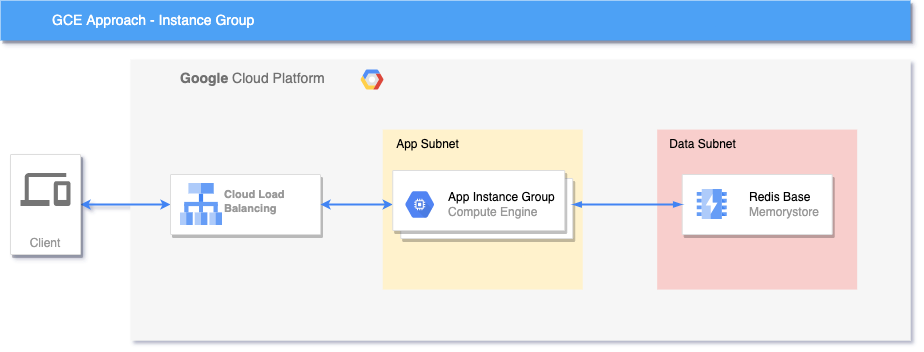
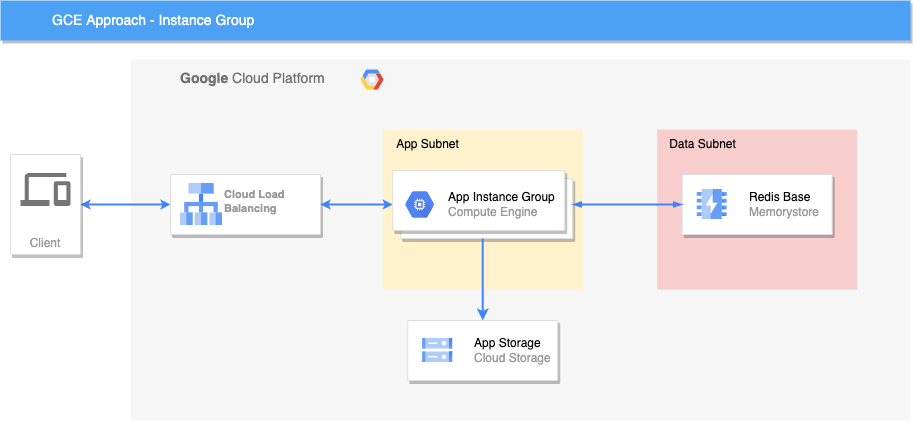
GCE Solution

diff --git a/app/main.go b/app/main.go
@@ -23,6 +23,7 @@ func init() {
 }
 
 func getCounters(w http.ResponseWriter, r *http.Request) {
+	hostname(w)
 	iter := redisClient.Scan(0, "counter:*", 0).Iterator()
 	count := make(map[string]int64)
 	for iter.Next() {
@@ -37,6 +38,7 @@ func getCounters(w http.ResponseWriter, r *http.Request) {
 }
 
 func setCounter(w http.ResponseWriter, r *http.Request) {
+	hostname(w)
 	key := r.FormValue("key")
 	if key == "" {
 		w.WriteHeader(http.StatusBadRequest)
@@ -54,7 +56,15 @@ func setCounter(w http.ResponseWriter, r *http.Request) {
 }
 
 func health(w http.ResponseWriter, r *http.Request) {
+	hostname(w)
 	w.WriteHeader(http.StatusOK)
+}
+
+func hostname(w http.ResponseWriter) {
+	hostname, err := os.Hostname()
+	if err == nil {
+		w.Header().Add("hostname", hostname)
+	}
 }
 
 func main() {

diff --git a/3-tiers-GCE/README.md b/3-tiers-GCE/README.md
@@ -1,0 +1,22 @@
+# GCE Solution
+This solution use pure GCE approach and the application run direct in a **Managed Instance Group**
+
+## Topology of Solution
+The infrastructure is composed mainly by the following resources:
+
+- A VPC with a subnet for run the instances ([network.tf](terraform/network.tf))
+- A bucket to store the application executable ([build-app.tf](terraform/build-app.tf))
+- A redis to store data ([redis.tf](terraform/redis.tf))
+- A instance template, group manager, auto scaling and load balance for run the appplication ([gce.tf](terraform/gce.tf))
+
+![alt text](../assets/GCE.png "GCE Solution Tolpology")
+
+## Pre-requisites
+For run this solition you must to have [terraform](https://www.terraform.io/) and [gcloud cli](https://cloud.google.com/sdk/docs/install) and then run the [setup.sh](setup.sh)
+
+## Running the code
+```bash
+export TF_VAR_project_id=<Your Project Id>
+terraform init
+terraform apply
+```

diff --git a/README.md b/README.md
@@ -1,0 +1,7 @@
+# GCP - 3 tiers application deployment in in five approaches
+
+- [GCE (this) - 3 tiers application using Managed Instance Group](3-tiers-GCE/README.md)
+- App Engine - 3 tiers application using App Engine
+- Cloud Run - 3 tiers application using Cloud Run
+- Cloud Function - 3 tiers application using Cloud Function
+- GKE - 3 tiers application using GKE
